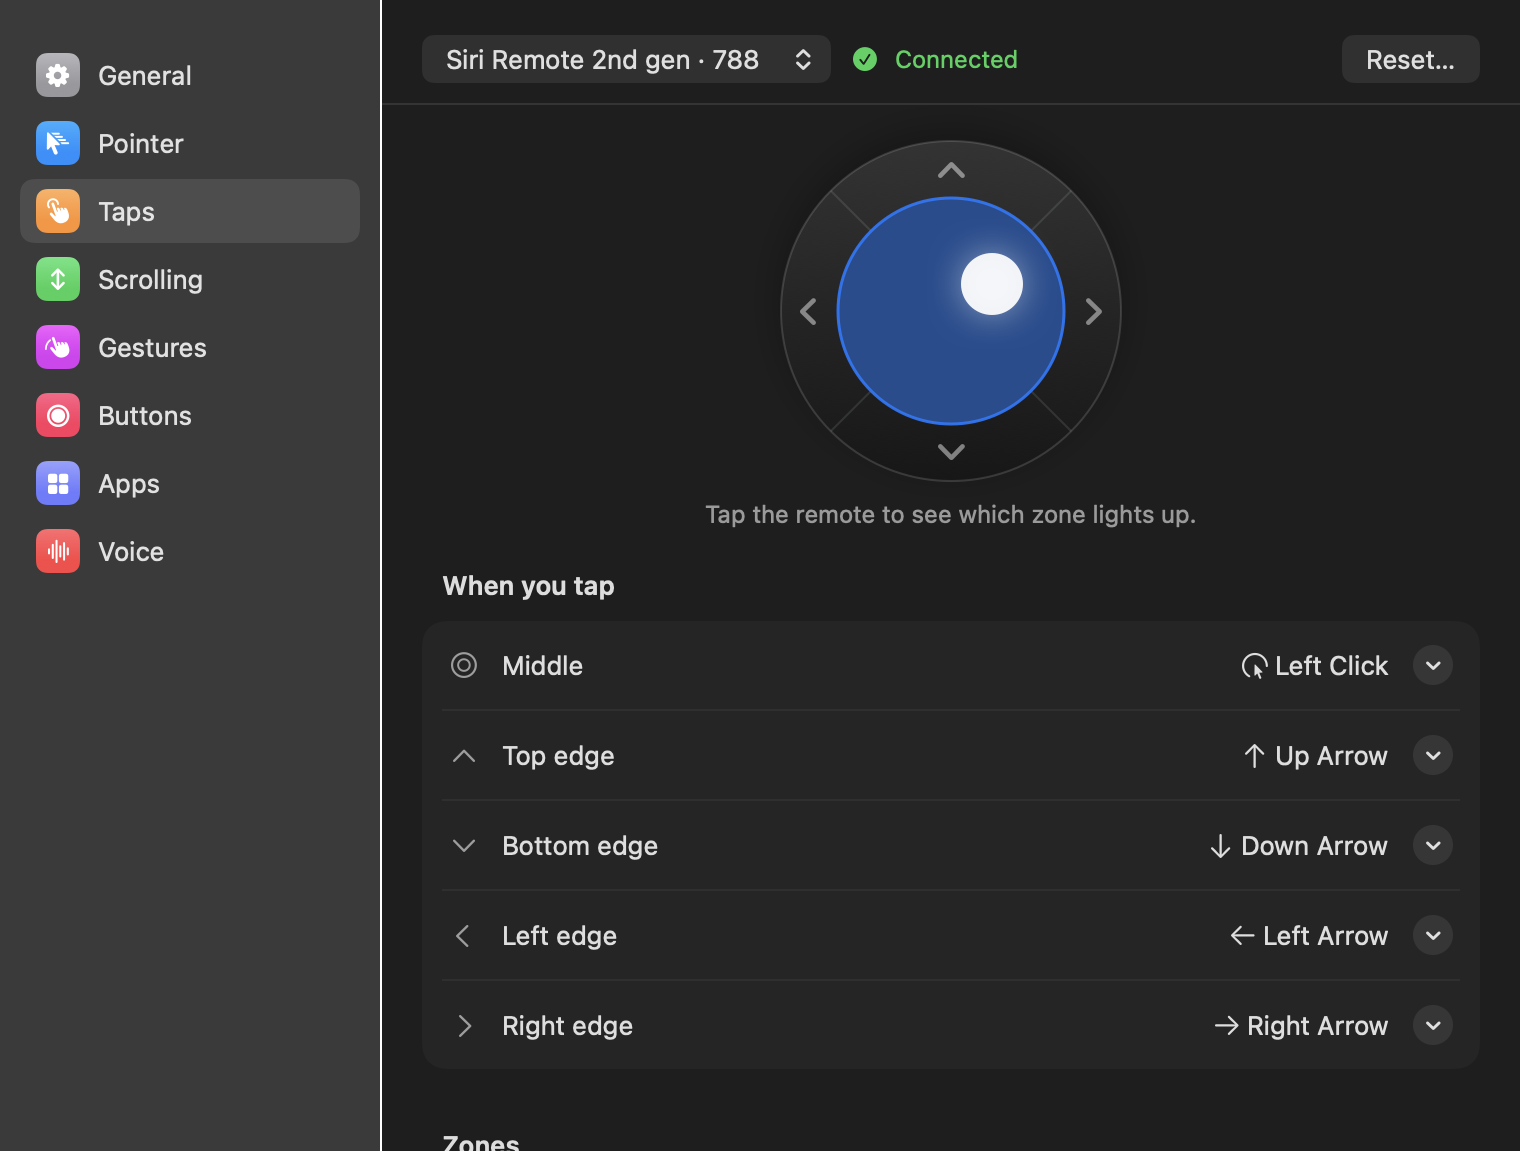
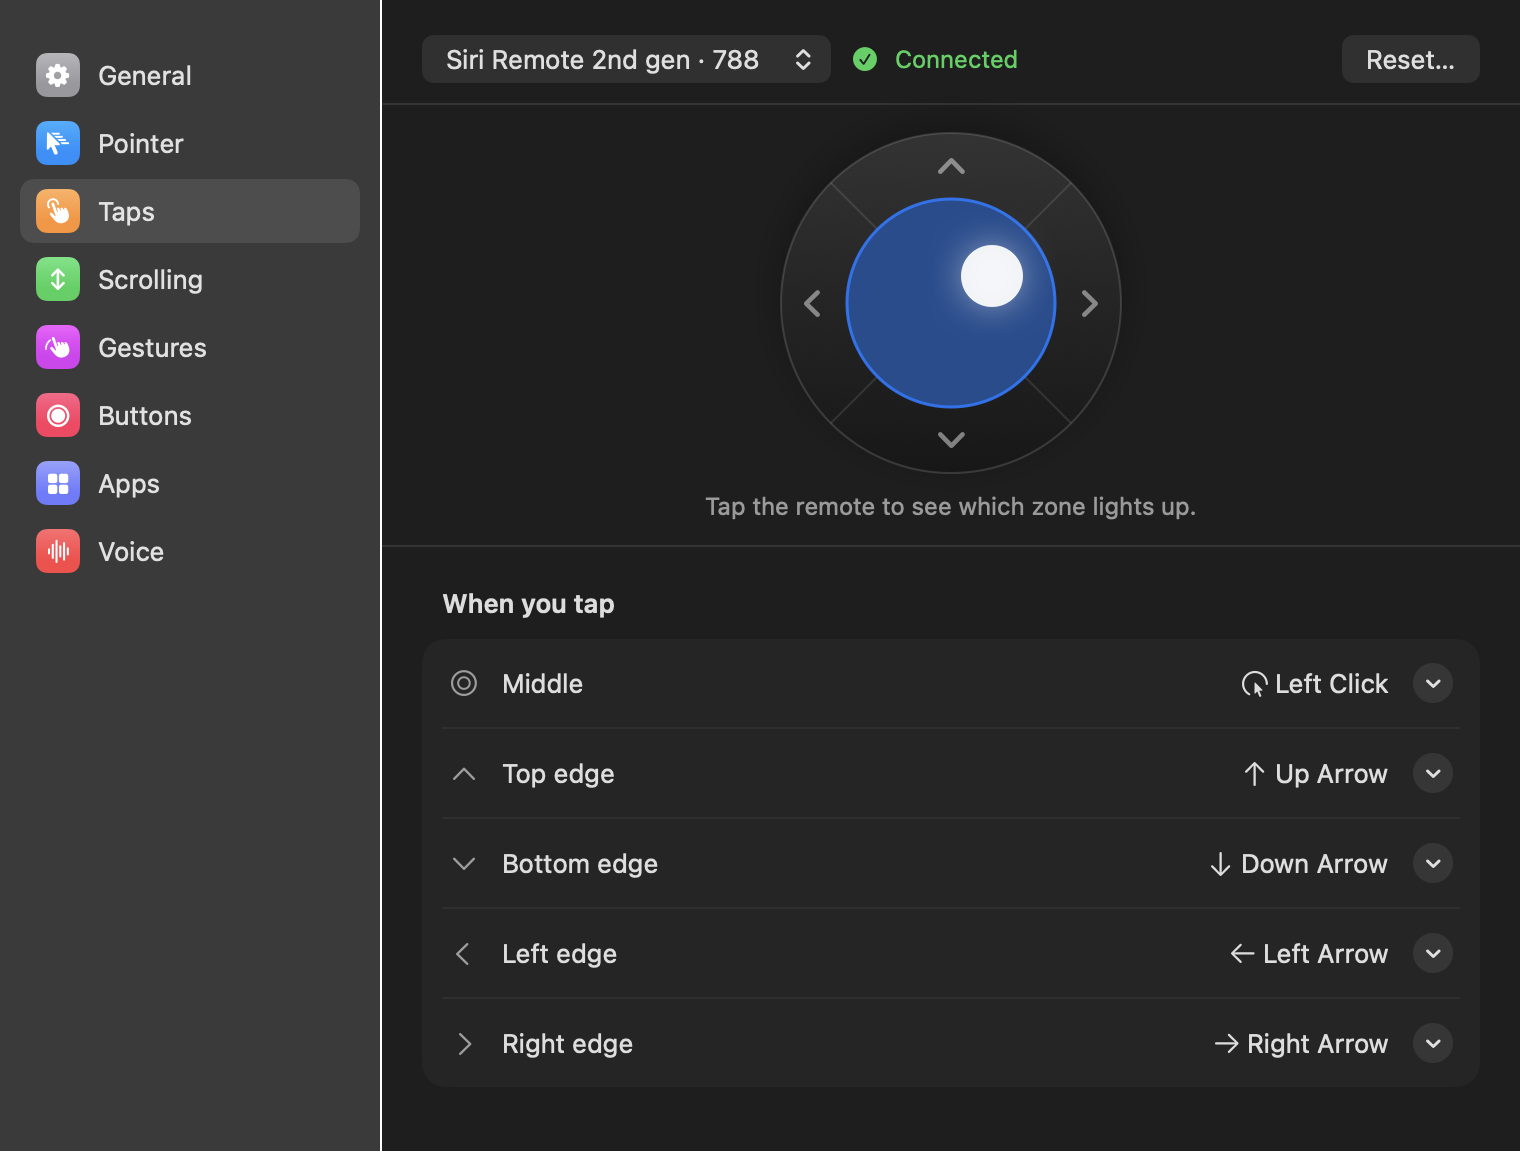
Siritap 0.3: Button mode
README: Button mode, click and pressure changes, new comparison row.
PRIVACY: what Button mode reads from other apps.
Release notes for 0.3, refreshed screenshots, bug report template.

diff --git a/README.md b/README.md
@@ -21,8 +21,15 @@ Siritap is a small menu-bar app. Pair a Siri Remote with your Mac, open Siritap,
 **Touch surface**
 - Move the pointer like a trackpad, with adjustable speed and acceleration.
 - Tap zones: a tap in the middle clicks, a tap on an edge presses an arrow key. Each zone can do anything you like.
-- Press harder to click, without lifting your finger. Keep pressing and slide to drag.
-- Ignores light, accidental touches.
+- Click the remote without lifting your finger, and the click lands where you aimed: the pointer is put back to where it was before the press nudged it. Keep it held and slide to drag.
+- Ignores light, accidental touches, and can hold the pointer still while you press hard.
+
+**Button mode** *(new in 0.3)*
+- The pointer settles on buttons, links, text fields, files and Dock icons, with a thin outline around the one in focus, like on Apple TV.
+- Swipe straight across or up and down to step from one to the next. A longer swipe goes further, and a hard flick keeps going.
+- Siritap reads your intent from the swipe: a diagonal movement moves the pointer instead, and so does pushing on past the last button in a window.
+- Or switch it on and off yourself by holding the click, and swipe across the whole screen, from the Dock to the menu bar.
+- Off by default. Choose Automatic or "Hold the click to switch" on the Pointer page.
 
 **Scrolling**
 - Scroll along the right edge, with momentum after a flick, like a trackpad.
@@ -47,7 +54,7 @@ Siritap is a small menu-bar app. Pair a Siri Remote with your Mac, open Siritap,
 
 **Made for each remote**
 - Every setting is kept separately for each remote, so a 1st-generation and a 2nd-generation remote can behave differently.
-- A live view shows your finger on the remote while you adjust the settings.
+- A live view of the remote stays at the top of each page and shows your finger while you adjust the settings below it.
 
 <p align="center">
   <img src="screenshots/taps.png" width="380" alt="Taps">
@@ -93,6 +100,7 @@ Set **Dictate (hold to talk)** on a button (the Siri button on the 2nd generatio
 | Price | Free | Paid | Paid | Free | Free, voice features paid |
 | Touch-surface pointer | Yes | Yes | Yes | – | Yes |
 | Tap zones and edge arrows | Yes | – | – | – | – |
+| Focus on buttons, swipe between them | Yes | – | – | – | – |
 | Momentum scrolling | Yes | – | – | – | – |
 | Ring scrolling (2nd gen) | Yes | Yes | – | – | Paid |
 | Per-app actions | Yes | Yes | Yes | A few apps | Yes |
@@ -105,7 +113,7 @@ This comparison was put together in November 2026 from each product's public pag
 
 ## Privacy
 
-Siritap makes no network connections, collects nothing and has no analytics. Speech is recognised by macOS on your Mac whenever your language supports it; otherwise macOS may send it to Apple, as it does for dictation. Details in [PRIVACY.md](PRIVACY.md).
+Siritap makes no network connections, collects nothing and has no analytics. Button mode reads the positions of buttons from other apps through macOS Accessibility, on your Mac only. Speech is recognised by macOS on your Mac whenever your language supports it; otherwise macOS may send it to Apple, as it does for dictation. Details in [PRIVACY.md](PRIVACY.md).
 
 ## Settings file
 

diff --git a/RELEASE_NOTES_0.3.md b/RELEASE_NOTES_0.3.md
@@ -1,0 +1,29 @@
+Button mode: get around your Mac the Apple TV way, plus a batch of fixes for clicks and taps.
+
+**Website:** https://siritap.leet.ae
+
+**Download:** `Siritap-0.3.dmg` below. Open it and drag Siritap into Applications, replacing the old copy. Signed and notarized by Apple. macOS 14 or later, Apple silicon and Intel.
+
+### New: Button mode
+Off by default. Turn it on in Settings → Pointer → Button mode.
+- The pointer settles on buttons, links, text fields, files and Dock icons, with a thin outline around the one in focus.
+- Swipe straight across or up and down to step to the next one. A longer swipe goes further, and a hard flick keeps going.
+- **Automatic:** Siritap reads your intent from the swipe. A diagonal movement moves the pointer instead, and so does pushing past the last button in a window.
+- **Hold the click to switch:** turn it on and off yourself, and swipe across the whole screen, from the Dock to the menu bar.
+- Tap an edge to jump to the next button that way; four "Next Button" actions can be put on any button.
+
+### Improved
+- **Clicking the 2nd-generation remote now works.** Its clickpad was only partly recognised, so many presses did nothing. A press anywhere on the pad is now a click, and one press is one click.
+- **Clicks land where you aimed.** Pressing nudges your fingertip; the pointer is put back to where it was before the press, and stays put while the click is held unless you slide to drag.
+- **Fast arrow taps all register.** Tapping quickly used to drop about one tap in four. Taps on the 2nd-generation remote also fire sooner.
+- **Hold still when pressing hard:** a new, optional pressure limit on the Pointer page.
+- The live view of the remote stays at the top of each settings page while you scroll.
+
+### After updating
+macOS may ask for Accessibility again. If the remote does nothing, switch Siritap off and on in System Settings → Privacy & Security → Accessibility.
+
+### Known limits
+- Button mode needs apps that describe their buttons to macOS Accessibility. Most Mac apps do; a few don't, and there the pointer simply moves freely.
+- 1st-generation remotes use the Mac's microphone for voice.
+
[1 lines of base64/hex data omitted]

diff --git a/ABOUT.md b/ABOUT.md
@@ -20,9 +20,9 @@ Paste these into the repository's **About** panel (the gear icon next to "About"
 ## Creating the release
 
 1. Releases → **Draft a new release**.
-2. Tag: `v0.2`. Title: `Siritap 0.2`.
-3. Paste the contents of `RELEASE_NOTES_0.2.md` as the description.
-4. Attach `Siritap-0.2.dmg`.
+2. Tag: `v0.3`. Title: `Siritap 0.3: Button mode`.
+3. Paste the contents of `RELEASE_NOTES_0.3.md` as the description.
+4. Attach `Siritap-0.3.dmg`.
 5. Publish.
 
 ## What to upload to the repo
@@ -46,15 +46,15 @@ Upload the contents of `docs/` as the site's web root:
 ```
 index.html                  the home page
 download/index.html         forwards to the current DMG
-downloads/Siritap-0.2.dmg   the app
+downloads/Siritap-0.3.dmg   the app (keep Siritap-0.2.dmg there too)
 img/                        icon and screenshots
 ```
 
 Every download button on the page points to `/download/`, and that page forwards to the DMG. So for a new version you:
 
-1. Upload `downloads/Siritap-0.3.dmg` (keep the old one, so links people already shared still work).
-2. In `download/index.html`, change `0.2` to `0.3` in its three places.
-3. Change "Version 0.2" on the home page.
+1. Upload the new DMG to `downloads/` (keep the old ones, so links people already shared still work).
+2. In `download/index.html`, change the version number in its three places.
+3. Change the "Version …" line on the home page.
 
 Server notes:
 - Any static web server works (nginx, Apache, CloudPanel's static site). No PHP or database.

diff --git a/PRIVACY.md b/PRIVACY.md
@@ -10,10 +10,14 @@ Siritap runs entirely on your Mac.
 
 | Permission | Why |
 |---|---|
-| Accessibility | To move the pointer, click, scroll and press keys for the remote. |
+| Accessibility | To move the pointer, click, scroll and press keys for the remote. With Button mode on, also to find where buttons, links and fields are in the apps on screen. |
 | Microphone | Only for voice typing with the Mac's microphone. Siritap listens only while you hold the dictate button. |
 | Speech Recognition | To turn what you say into text. |
 | Background helper (optional) | Only for voice typing with the 2nd-generation remote's own microphone. See below. |
+
+## Button mode
+
+When Button mode is on, Siritap asks macOS Accessibility where the buttons, links, text fields, files and Dock icons on screen are, so the pointer can settle on them and you can swipe between them. It reads their type, position and size only: not their labels, not what you type, not page content. The list is kept in memory for a few seconds and never saved or sent anywhere. Some apps (Chrome, and apps built like it) only describe their buttons once an assistive tool asks, so Siritap asks them to. With Button mode off, none of this happens.
 
 ## Speech
 

diff --git a/.github/ISSUE_TEMPLATE/bug_report.md b/.github/ISSUE_TEMPLATE/bug_report.md
@@ -1,0 +1,22 @@
+---
+name: Bug report
+about: Something doesn't work as expected
+labels: bug
+---
+
+**What happened**
+
+
+**What you expected**
+
+
+**Steps to reproduce**
+1.
+2.
+
+**Your setup**
+- Remote: (1st generation black / 2nd generation silver)
+- Siritap version: (menu bar icon → Settings → General)
+- macOS version:
+- Mac: (Apple silicon or Intel)
+- Other remote apps installed (Remote Buddy, SiriMote, BetterTouchTool…):
